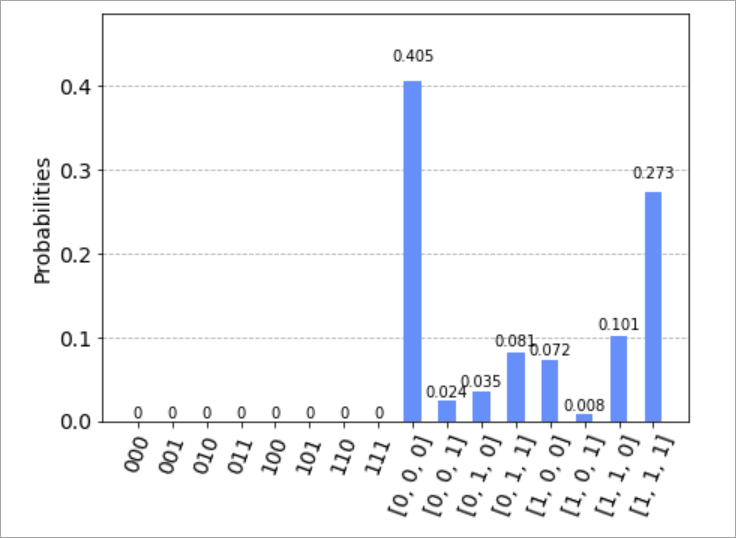
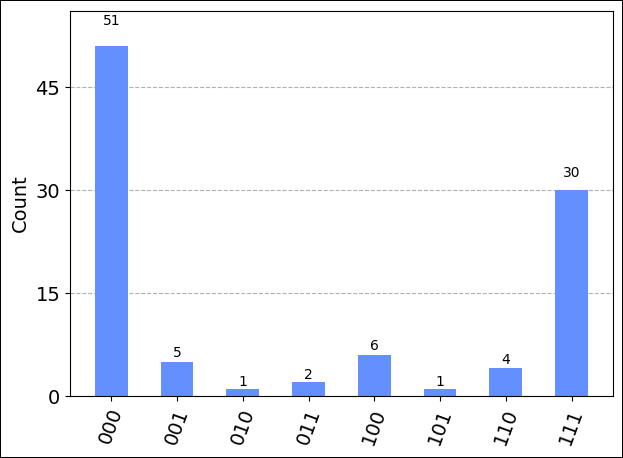
add new function

diff --git a/articles/includes/quickstart-qiskit-include-local.md b/articles/includes/quickstart-qiskit-include-local.md
@@ -424,7 +424,7 @@ qpu_backend = provider.get_backend("rigetti.qpu.ankaa-2")
 
 ```python
 # Submit the circuit to run on Azure Quantum
-job = qpu_backend.run(circuit, shots=500)
+job = qpu_backend.run(circuit, shots=100)
 job_id = job.id()
 print("Job id", job_id)
 ```
@@ -440,8 +440,8 @@ plot_histogram(counts)
 ```
 
 ```output
-Result(backend_name='rigetti.qpu.ankaa-2', backend_version='1', qobj_id='Qiskit Sample - 3-qubit GHZ circuit', job_id='00000000-0000-0000-0000-000000000000', success=True, results=[ExperimentResult(shots=1024, success=True, meas_level=2, data=ExperimentResultData(counts={'011': 16, '010': 5, '001': 1, '000': 500, '111': 471, '101': 6, '100': 17, '110': 8}, probabilities={'011': 0.015625, '010': 0.0048828125, '001': 0.0009765625, '000': 0.48828125, '111': 0.4599609375, '101': 0.005859375, '100': 0.0166015625, '110': 0.0078125}), header=QobjExperimentHeader(name='Qiskit Sample - 3-qubit GHZ circuit'))])
-{'000': 500, '001': 1, '010': 5, '011': 16, '100': 17, '101': 6, '110': 8, '111': 471}
+.....Result(backend_name='rigetti.qpu.ankaa-2', backend_version='1', qobj_id='Qiskit Sample - 3-qubit GHZ circuit', job_id='dd72c9c7-5a88-11ef-a183-a91b61633c2f', success=True, results=[ExperimentResult(shots=100, success=True, meas_level=2, data=ExperimentResultData(counts={'001': 5, '100': 6, '111': 30, '000': 51, '110': 4, '101': 1, '010': 1, '011': 2}, memory=['001', '100', '111', '000', '000', '000', '001', '000', '000', '110', '000', '111', '111', '111', '000', '000', '000', '000', '101', '111', '111', '010', '000', '000', '000', '000', '000', '000', '001', '011', '111', '000', '000', '111', '000', '111', '000', '000', '111', '111', '110', '111', '000', '000', '111', '111', '111', '100', '111', '000', '111', '000', '000', '000', '111', '000', '000', '001', '000', '100', '111', '000', '011', '000', '111', '000', '111', '111', '111', '000', '111', '111', '000', '111', '111', '000', '111', '000', '000', '000', '000', '000', '110', '000', '000', '110', '111', '100', '000', '111', '000', '100', '001', '000', '000', '000', '000', '100', '000', '000'], probabilities={'001': 0.05, '100': 0.06, '111': 0.3, '000': 0.51, '110': 0.04, '101': 0.01, '010': 0.01, '011': 0.02}), header=QobjExperimentHeader(name='Qiskit Sample - 3-qubit GHZ circuit', num_qubits=3, metadata={}), status=JobStatus.DONE, name='Qiskit Sample - 3-qubit GHZ circuit')], date=None, status=None, header=None, error_data=None)
+
 ```
 
 ![Qiskit circuit result on Rigetti QPU](../media/azure-quantum-qiskit-rigetti-result-2.png)
